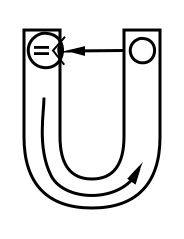
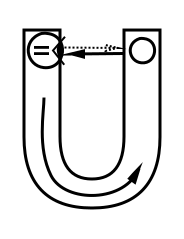
Mar 10: Update FoC

Changed region(s): [[0.2989, 0.1757, 0.6793, 0.2636]]

diff --git a/Metaphysics/FoC.html b/Metaphysics/FoC.html
@@ -16,19 +16,23 @@
 <BODY>
 <h1>The FoC (Form ∘ Content)</h1>
 <p>
-  <a href="Trinion.html">The Trinion</a> (\(\Trinion\)) is not an inanimate-insensate thing, but an <i>alive being called "<b>subject</b>" with its static (◯), dynamic (↑) and balance (=)</i>. However, looking back at itself, the Trinion cannot see all of its components at once, but only some <a href="https://en.wikipedia.org/wiki/Abstraction" target="_">abstraction</a> of itself.
+  <a href="Trinion.html">The Trinion</a> (\(\Trinion\)) is not an inanimate-insensate thing, but an <i>alive being with its static (◯), dynamic (↑) and balance (=)</i>. However, <i><b>looking back at itself</b></i>, the Trinion cannot see all of its components at once, but only some <a href="https://en.wikipedia.org/wiki/Abstraction" target="_">abstraction</a> of itself.
 </p>
 <center><img src="img/OuroborosUniverse.png" height="150"></center>
+<h3>Analysis of the Trinion</h3>
 <p>
-  As the eye of the subject, the Equal (=) is first abstracted so that the Trinion sees its body as an <i><b>object</b> composed of the Circle (◯) and the Arrow (↑)</i>. While the object is still animate, it's insensate due to the lack of the sensor, the eye, the Equal (=). When the Trinion takes "snapshot" of its <i><b>form</b> as a static Circle (◯)</i>, the dynamic (↑) is abstracted. Thus the form is just an abstract concept of an inanimate-insensate thing, captured by the symbol Circle (◯). After many snapshots, the Trinion connects them into a sequence then further abstracts the form to infer its <i><b>content</b> as a static Arrow (↑)</i>. Thus, the animate content of the object is captured by an inanimate symbol Arrow (↑). Finally, the Trinion reasons about the relation between what it has seen to draw the conclusion «◯ = ↑», then abstracts the two known symbols Circle (◯) and Arrow (↑) to infer that its <i><b>operator</b> is the Equal (=)</i>. Thus the sensate[<a href="#SensateSentientConscious">1</a>] operator of the subject is captured by an insensate symbol Equal (=).
+  The Trinion uses the Equal (=) as an eye to look, so it can see anything except its eye. Thus, the Equal (=) is first abstracted and the Trinion sees its body as an animate object but insensate due to the lack of the sensor, the eye. When the Trinion takes snapshot of its <i><b>form</b> as a static Circle (◯)</i>, the dynamic (↑) is abstracted, too. Thus, the form is just an abstract concept of an inanimate-insensate thing, captured by the symbol Circle (◯). After many snapshots, the Trinion connects them into a sequence, then abstracts the form out to infer its <i><b>content</b> as a static Arrow (↑)</i>. Thus, the animate content of the Trinion is captured by an inanimate symbol Arrow (↑). Finally, the Trinion reasons about the relation between what it has seen to draw the conclusion «◯ = ↑», then abstracts the two known symbols Circle (◯) and Arrow (↑) out to infer that its <i><b>operator</b> is the Equal (=)</i>. Thus, the sensate[<a href="#SensateSentientConscious">1</a>] operator of the Trinion is captured by an insensate symbol Equal (=). The operator is also denoted by symbol Composition (∘) and also called "<b>observer</b>". That's how the Trinion considers Circle (◯), Arrow (↑) and Equal (=) as abstract form, abstract content and abstract operator, respectively. 
 </p>
 <center><img src="https://docs.google.com/drawings/d/e/2PACX-1vSzX92VgMKpIiZapIQLw3jaiYrKMh4AxNWSyGelMSCpp7XYSUgly1LqP-q6C60JsrdgBGNehq9w7ECG/pub?w=410&amp;h=307" height="200"></center>
+<h3>Integration of the components</h3>
 <p>
-  Studying about each component of itself, the Trinion realizes that they are all subjects in their own right. So, the component subjects are called "concrete form", "concrete content" and "concrete operator" to distinguish from the abstract concepts of them as described above.
-</p>
+  Using the operator (∘), the Trinion can only directly see its insensate body, so it consider <i>anything with form (◯), content (↑) and <b>without operator (∘)</b> as an <b>object</b></i>, in contrast to <i><b>subject</b> as anything <b>including all the three</b>, form (◯), content (↑) and operator (∘)</i>. However, due to <a href="Trinion.html#Intrinsics">the intrinsics of Unïnfo</a>, all concrete things are subjects because they always have all the three components even if some compopents are hidden. That means in the wholistic view, <b>concrete form</b>, <b>concrete content</b> and <b>concrete operator</b> are all subjects in their own right. Especially, the concrete operator (●), as the mind of its subject, can be considered as a "subject within subject" when the outer subject looks inside via self-reflection. The concrete operator has its own form and content to reflect the external world, in observation phase, into its internal world containing virtual objects, which will then be actualized into new real objects back in the external world, in operation phase. Hence, that internal world is called "<b>possible world</b>", those virtual objects are called "<b>extensional objects</b>", extending the observed objects in the actual world into the possible world.
 
+</p>
+<h3>Onion structure of the Trinion</h3>
+<center><img src="img/Trinion-onion.png" width="150"></center>
 <p>
-  Operator = meta object, the seed to generate new subject, denoted by symbol "∘". The Trinion manifests as the FoC.
+  There are many <i>layers of form</i>, one after another, containing their contents inside. For each layer of form, there are two kinds of contents, the <b>self-content</b> which has crystalized into the form itself, and the <b>carried contents</b> which are inner layers enclosed by this layer. The self-content of adjacent layers are <i>separated by the extremes (±∞)</i>, thus <i>independent</i> from each other. Just like a bottle of water, both water (its carried contents, ⥁) and melted glass (its self-content, ⇌) are dynamic relative to the static glass bottle (its form, ◯). Back to the onion, at its base, there is a bud generating all those layers above, which has the potential to generate new layers in the future, that's the <b>concrete operator</b> of the Trinion, just like the seed of seed plants and the brain of animals.
 </p>
 
 <p>

diff --git a/Metaphysics/Trinion.html b/Metaphysics/Trinion.html
@@ -26,11 +26,11 @@ In Unïnfo, every concrete thing (<a href="https://en.wikipedia.org/wiki/Being" 
 </p>
 <h1><center>◯ = ↑</center></h1>
 <ul>
-<li id="Existence"><b>Postulate of Existence</b>: There exists a <b>Circle (◯)</b>.</li>
-<li id="Differentiation"><b>Postulate of Differentiation</b>: There exists an <b>Arrow (↑)</b> different from the Circle.</li>
-<li id="Unification"><b>Postulate of Unification</b>: The Circle and the Arrow are two aspects of the same being called <b>Trinion (\(\Trinion\))</b>[<a href="#TrinionEtymology">0</a>]. This equivalence of the Circle and the Arrow is called the <b>Equal (=)</b>[<a href="#EqualVsEquals">4</a>].</li>
+<li id="Existence"><b>Postulate of Existence</b>: There <i>exists</i> a <b>Circle (◯)</b>.</li>
+<li id="Differentiation"><b>Postulate of Differentiation</b>: There exists an <b>Arrow (↑)</b> <i>different</i> from the Circle.</li>
+<li id="Unification"><b>Postulate of Unification</b>: The Circle and the Arrow are two aspects of <i>the same</i> being called <b>Trinion (\(\Trinion\))</b>[<a href="#TrinionEtymology">0</a>]. This equivalence of the Circle and the Arrow is called the <b>Equal (=)</b>[<a href="#EqualVsEquals">4</a>].</li>
 </ul>
-<p>
+<p id="Intrinsics">
 The equation «◯ = ↑» is the One that unifies the Two opposites (◯, ↑) via the Third (=). This is called <a href="https://en.wikipedia.org/wiki/Unity_of_opposites" target="_blank">the unity of opposites</a> (☯). Hence, the Unïnfo seems to be <a href="https://en.wikipedia.org/wiki/Pluralism_(philosophy)" target="_">trialistic</a> (due to the Three components), <a href="https://en.wikipedia.org/wiki/Dualism_in_cosmology" target="_">dualistic</a> (due to the Two opposites), <a href="https://en.wikipedia.org/wiki/Monism" target="_">monistic</a> (due to the One equation), but actually it's <a href="https://en.wikipedia.org/wiki/Relativism" target="_">relativistic</a> as reflected by the intrinsics of the Zero (the Trinion).[<a href="#Numbering">1</a>] <span id="Intrinsics">Corresponding to Circle, Arrow and Equal, there are three intrinsics of the static, the dynamic and the balance, respectively, like the following:</span>
 </p>
 <center><img src="https://docs.google.com/drawings/d/e/2PACX-1vS9V9dJw-g6xIgBfsxnv1LuCnL0qWYsZFgENqVofL71jh2kOv6deTScJ6nvJCBTG7GRBzgezvJNZlg2/pub?w=415&amp;h=268" width="300"></center>
@@ -86,8 +86,8 @@ As a <a href="https://en.wikipedia.org/wiki/Cyclic_order" target="_">cyclic orde
 “Trinion” = “Tri-” + “union” is the union of the three components. This puts more emphasis on <i>the unity of the three</i>, compared to other triads like <a href="CIE.html">the CIE</a>. This meaning is very much similar to <a href="https://en.wikipedia.org/wiki/Trinity" target="_">the “Holy Trinity”</a> in theism, where “Trinity” may be considered as “Tri-” + “unity”. In the course of finding a term not to be confused with the “Holy Trinity”, the “Triad” or simply the “Three” have been considered. But then the term “Trinion” was coined to reflect the harmony of both the Differentiation and the Unification as the dynamic of the Existence which is not only a “<a href="https://en.wikipedia.org/wiki/Pre-existence" target="_">pre-existence</a>”. And the Trinion can also be considered as the composit of layers of components as shown by the onion, which itself has <a href="https://www.etymonline.com/word/onion" target="_">a Roman root meaning “one”</a>. <br>
 Sidenotes: 
     <ul>
-    <li>Searching for "trinion", I've found two usages, "trinion" as a 3D complex number "x + y<b>i</b> + z<b>j</b>", and <a href="https://www.neodeism.com/trinion-contradictions/" target="_">the "Trinion Wheel" in NeoDeism</a>.</li>
-    <li>The theme of triads in Unïnfo reflects the natural triadic relations in philosophies from the East to the West: Taoism's "yin-yang-qi", Hinduism's Trimurti, Celtic culture's triplism, Christianity's Trinity, as well as triples of <a href="https://en.wikipedia.org/wiki/Category_of_being#Hegel" target="_">categories of being</a> from Plotinus to Kant, Hegel and Peirce.</li>
+    <li>Searching for “trinion”, I've found two usages, “trinion” as a 3D complex number “x + y<b>i</b> + z<b>j</b>”, and <a href="https://www.neodeism.com/trinion-contradictions/" target="_">the “Trinion Wheel” in NeoDeism</a>.</li>
+    <li>The theme of triads in Unïnfo reflects the natural triadic relations in philosophies from the East to the West: Taoism's “yin-yang-qi”, Hinduism's Trimurti, Celtic culture's triplism, Christianity's Trinity, as well as triples of <a href="https://en.wikipedia.org/wiki/Category_of_being#Hegel" target="_">categories of being</a> from Plotinus to Kant, Hegel and Peirce.</li>
     </ul>
 </li>
 <li id="Numbering"><b>Numbering</b>: As idenfitiers, «◯», «↑» and «=» are numbered “0”, “1” and “2” (Chinese “二”), resp. As ordinals, «◯», «↑» and «=» are called “the First”, “the Second” and “the Third”, resp. As cardinals, «\(\Trinion\)», «◯ = ↑», «◯, ↑» and «◯, ↑, =» are called “the Zero”, “the One”, “the Two” and “the Three”, resp. In Taoism, the Zero (\(\Trinion\)) is called “the Way”, the 1st and the 2nd (◯, ↑) are called “yin”[陰,⚋] (dark, negative) and “yang”[陽,⚊] (light, positive) which are harmonized by the 3rd (=). The 3rd is the most important one with many manifestations: the Equal, the middle, the interaction, the interface, ... 

diff --git a/Unithread/CIE.html b/Unithread/CIE.html
@@ -16,7 +16,9 @@
 
 <BODY>
 <h2>The Trinion (\(\Trinion\)) in Unithread</h2>
-<p>In Unithread, <a href="../Metaphysics/Trinion.html" target="_">the Trinion</a> is manifested as a "thread" which is a dynamic continuous directed circular metrizable knotted dimensionless blob whose state or "snapshot" is a <a href="https://en.wikipedia.org/wiki/Topological_space" target="_">topological space</a>. , , has direction arrow and amount circle. The "amount" is abstract, not even a number.
+<p>In Unithread, <a href="../Metaphysics/Trinion.html" target="_">the Trinion</a> is manifested as a "thread", called "Ω-thread" [Ω] (Ōṁ-thread [Ω,ॐ], One-thread [Ω,𝟙]), which is a dynamic continuous directed circular metrizable knotted dimensionless blob whose state or "snapshot" is a <a href="https://en.wikipedia.org/wiki/Pointless_topology" target="_">topos</a>. , , has direction arrow and amount circle. The "amount" is abstract, not even a number.
+</p>
+<p>From the outside, the Ω-thread is seen as just a 0 point without any information. Different eyes in the Ω-thread see different views of the Ω-thread with different structures and information.
 </p>
 <h2>The CIE (Ψ) in Unithread</h2>
 <p>In Unithread, "current" is 

diff --git a/index.html b/index.html
@@ -19,14 +19,14 @@
 
 <h3>Contents:</h3>
 <ul>
-<li>The metaphysical theory of Unïnfo</li>
+<li>The metaphysical theory of Unïnfo [𝕄]</li>
     <ul>
     <li><a href="Metaphysics/Trinion.html">The Trinion (\(\Trinion\))</a>: Circle - Arrow - Equal, the three basic components with the three basic postulates</li>
     <li><a href="Metaphysics/FoC.html">The FoC</a>: The Trinion as a subject with three components Form - Operator - Content</li>
     <li><a href="Metaphysics/CIE.html">The CIE (Ψ)</a>: Subjective quantitative view of the Universe as Content - Intent - Extent and their three partitions</li>
     <li></li>
     </ul>
-<li>Unithread Theory</li>
+<li>Unithread Theory [Ʊ]</li>
     <ul>
     <li><a href="Unithread/CIE.html">The CIE (Ψ) in Unithread</a>: From thread to current</li>
     <li><a href="Unithread/ProjectiveDynamics.html">Projective Dynamics</a>: The dynamics generated by the distorted views resulting from projection between them </li>
@@ -34,8 +34,8 @@
     <li></li>
     <li></li>
     </ul>
-<li>Knowledge Theory</li>
-<li>Uninet</li>
+<li>Knowledge Theory [𝕂]</li>
+<li>uninet [<b>ᔕ</b>]</li>
 </ul>
 
 </BODY>

diff --git a/scripts/utilities.js b/scripts/utilities.js
@@ -29,9 +29,12 @@ function defineMathJaxMacros(){
   MathJax = {
     tex: {
       macros: {
-        'd': ['{\\mathrm{d}}'],
-        'e': ['{\\mathrm{e}}'],
-        'Trinion': ['{\\rlap{\\kern 0.15em\\raise.04em\\scriptsize{ ⇌}}{◯} }']
+        'd': ['{\\mathrm{d}}'], // Leibniz's notation of differential
+        'D': ['{\\mathrm{D}}'], // Euler's notation of differential operator
+        'e': ['{\\mathrm{e}}'], // Euler's number, the base of the natural logarithm 
+        'Trinion': ['{ \\rlap{\\kern 0.15em\\raise.04em\\scriptsize{⇌}} {◯} }'],
+        'interunion': ['{⋇}'], // the interunion operator, Unicode: division times
+        'uninet': ['{ᔕ}'], // inverse of Euler's open infinity symbol, Unicode: Canadian Aboriginal syllabic "sha"
       }
     }
   }
